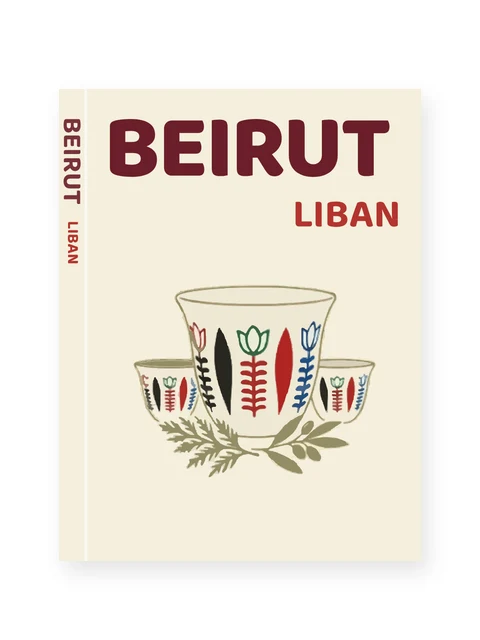
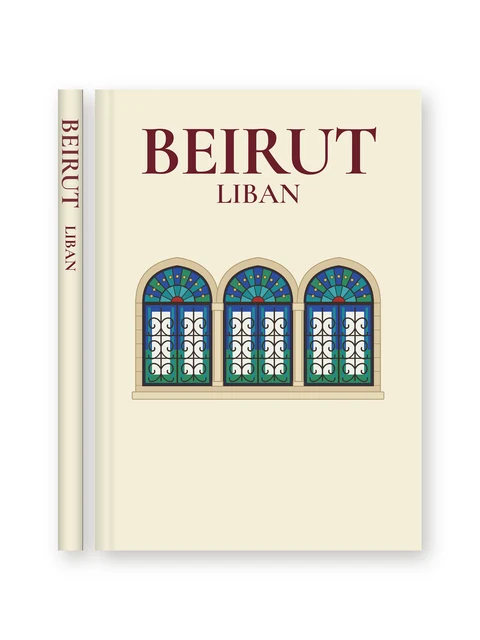
Beirut travel template, redrawn sharp, now offered
After Clara's mock-up: a cream cover, BEIRUT in burgundy serif capitals
centred, LIBAN under it, and Beirut's triple arched window with its
stained glass and wrought iron — drawn as vectors (travel-beirut-v2.svg),
sharp at any print size, instead of the low-resolution picture that kept
the template hidden. It joins the travel templates (Dubai and Cairo stay
hidden); new preview picture. A template subtitle can now carry a size
(font_scale), here a smaller LIBAN.

Claude-Session: https://claude.ai/code/session_019iW3qNmH4N4x87DfLWtU9k

Changed region(s): [[0.0938, 0.125, 0.875, 0.875], [0.875, 0.1562, 0.9062, 0.8438]]

diff --git a/frontend/src/lib/coverThemes.js b/frontend/src/lib/coverThemes.js
@@ -79,6 +79,9 @@ function textItem(id, content, opts = {}) {
     font_style: opts.font_style,
     text_align: opts.text_align,
     role: opts.role,
+    // A subtitle's size follows the title's (see CoverFrontPage): this
+    // shrinks it (0.4–1).
+    ...(opts.font_scale != null ? { font_scale: opts.font_scale } : {}),
   };
 }
 
@@ -268,6 +271,37 @@ export const COVER_THEMES = [
           extra_items: [
             iconItem(TRAVEL_BARCELONA_ICON, "travel_barcelona", { x: 0.201, y: 0.44, w: 0.599, h: 0.5 }),
             textItem("subtitle", "Catalonia", { role: "subtitle", x: 0.34, y: 0.22, w: 0.6, h: 0.07, font: BALOO, font_weight: "700", font_size: 26, color: "#D9764A", text_align: "right" }),
+          ],
+        },
+      },
+      {
+        // After Clara's mock-up: a cream cover, the title in burgundy
+        // capitals with serifs, centred, "Liban" under it, and Beirut's
+        // triple arched window with its stained glass (drawn as vectors,
+        // sharp at any print size).
+        id: "travel-beirut",
+        name: "Beirut, Lebanon",
+        landingImage: "/theme-covers/travel-beirut.webp",
+        title: "Beirut",
+        cover: {
+          bg_color: "#F3EED9",
+          accent_color: "#6B1E2A",
+          text_color: "#6B1E2A",
+          title_font: CORMORANT,
+          title_font_weight: "700",
+          title_font_size: 66,
+          title_text_align: "center",
+          title_x: 0.12, title_y: 0.06, title_w: 0.76, title_h: 0.13,
+          spine_subtitle: "Liban",
+          spine_subtitle_color: "#6B1E2A",
+          spine_subtitle_font: CORMORANT,
+          spine_subtitle_weight: "700",
+          spine_title_size: 32,
+          spine_title_font: CORMORANT,
+          spine_title_weight: "700",
+          extra_items: [
+            iconItem(TRAVEL_BEIRUT_ICON, "travel_beirut", { x: 0.1, y: 0.36, w: 0.8, h: 0.32 }),
+            textItem("subtitle", "LIBAN", { role: "subtitle", x: 0.25, y: 0.195, w: 0.5, h: 0.06, font: CORMORANT, font_weight: "600", font_size: 24, font_scale: 0.7, color: "#6B1E2A", text_align: "center" }),
           ],
         },
       },
@@ -574,33 +608,9 @@ export function findTemplate(templateId) {
 
 // Travel covers for travellers from Lebanon, kept out of the template list
 // until their illustrations are redone from high-resolution images: add
-// them back to the "travel" templates above to offer them again.
+// them back to the "travel" templates above to offer them again (as done
+// for Beirut).
 export const PENDING_TRAVEL_TEMPLATES = [
-  {
-    id: "travel-beirut",
-    name: "Beirut, Lebanon",
-    landingImage: "/theme-covers/travel-beirut.webp",
-    title: "Beirut",
-    cover: {
-      bg_color: "#F4EFDB",
-      accent_color: "#B3342F",
-      text_color: "#6B1E2A",
-      title_font: BALOO,
-      title_font_weight: "800",
-      title_font_size: 66,
-      title_x: 0.05, title_y: 0.04, title_w: 0.89, title_h: 0.18,
-      spine_subtitle: "Liban",
-      spine_subtitle_color: "#B3342F",
-      spine_subtitle_font: BALOO,
-      spine_subtitle_weight: "700",
-      spine_title_size: 32,
-      spine_title_font: BALOO,
-      extra_items: [
-        iconItem(TRAVEL_BEIRUT_ICON, "travel_beirut", { x: 0.1, y: 0.4, w: 0.8, h: 0.442 }),
-        textItem("subtitle", "Liban", { role: "subtitle", x: 0.44, y: 0.22, w: 0.5, h: 0.08, font: BALOO, font_weight: "700", font_size: 28, color: "#B3342F", text_align: "right" }),
-      ],
-    },
-  },
   {
     id: "travel-dubai",
     name: "Dubai",

diff --git a/frontend/src/lib/themeAssets.js b/frontend/src/lib/themeAssets.js
@@ -7,6 +7,6 @@ export const TRAVEL_PAROS_ICON = "/cover-art/travel-paros-v2.svg";
 export const TRAVEL_MOROCCO_ICON = "/cover-art/travel-morocco-v2.svg";
 export const TRAVEL_AUSTRALIA_ICON = "/cover-art/travel-australia-v1.svg";
 export const TRAVEL_BARCELONA_ICON = "/cover-art/travel-barcelona-v2.svg";
-export const TRAVEL_BEIRUT_ICON = "/cover-art/travel-beirut-v1.svg";
+export const TRAVEL_BEIRUT_ICON = "/cover-art/travel-beirut-v2.svg";
 export const TRAVEL_DUBAI_ICON = "/cover-art/travel-dubai-v1.svg";
 export const TRAVEL_CAIRO_ICON = "/cover-art/travel-cairo-v1.svg";

diff --git a/backend/tests/test_cover_art.py b/backend/tests/test_cover_art.py
@@ -66,7 +66,10 @@ def test_redrawn_travel_icons_get_their_new_file():
 
 def test_redrawn_svgs_are_smooth_curves():
     for path in (FRONTEND / "public" / "cover-art").glob("travel-*-v2.svg"):
-        paths = re.findall(r' d="([^"]*)"', path.read_text())
+        text = path.read_text()
+        if "Traced with VTracer" not in text:
+            continue  # drawn as vectors to begin with (Beirut): its straight edges are meant
+        paths = re.findall(r' d="([^"]*)"', text)
         assert paths and all(" L" not in d and " C" in d for d in paths), path.name
 
 
